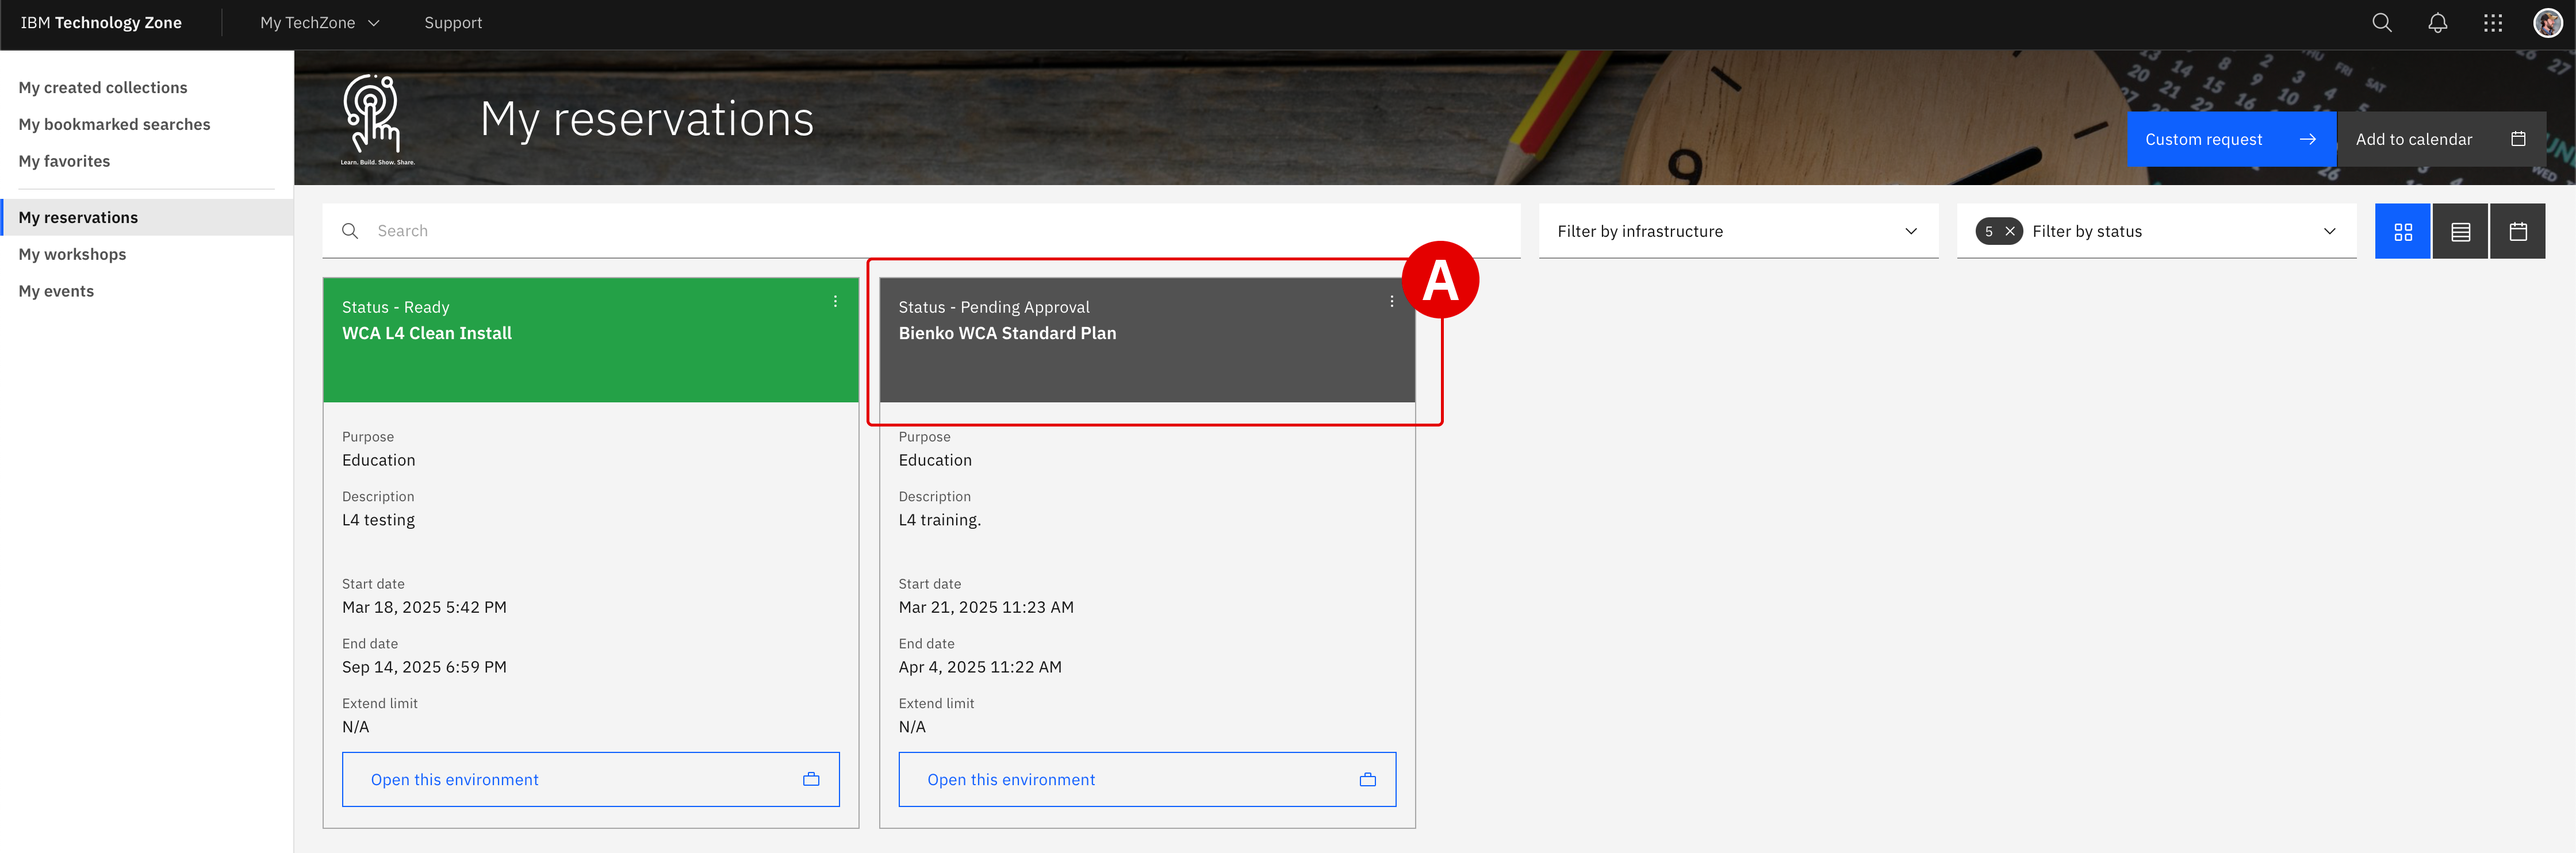
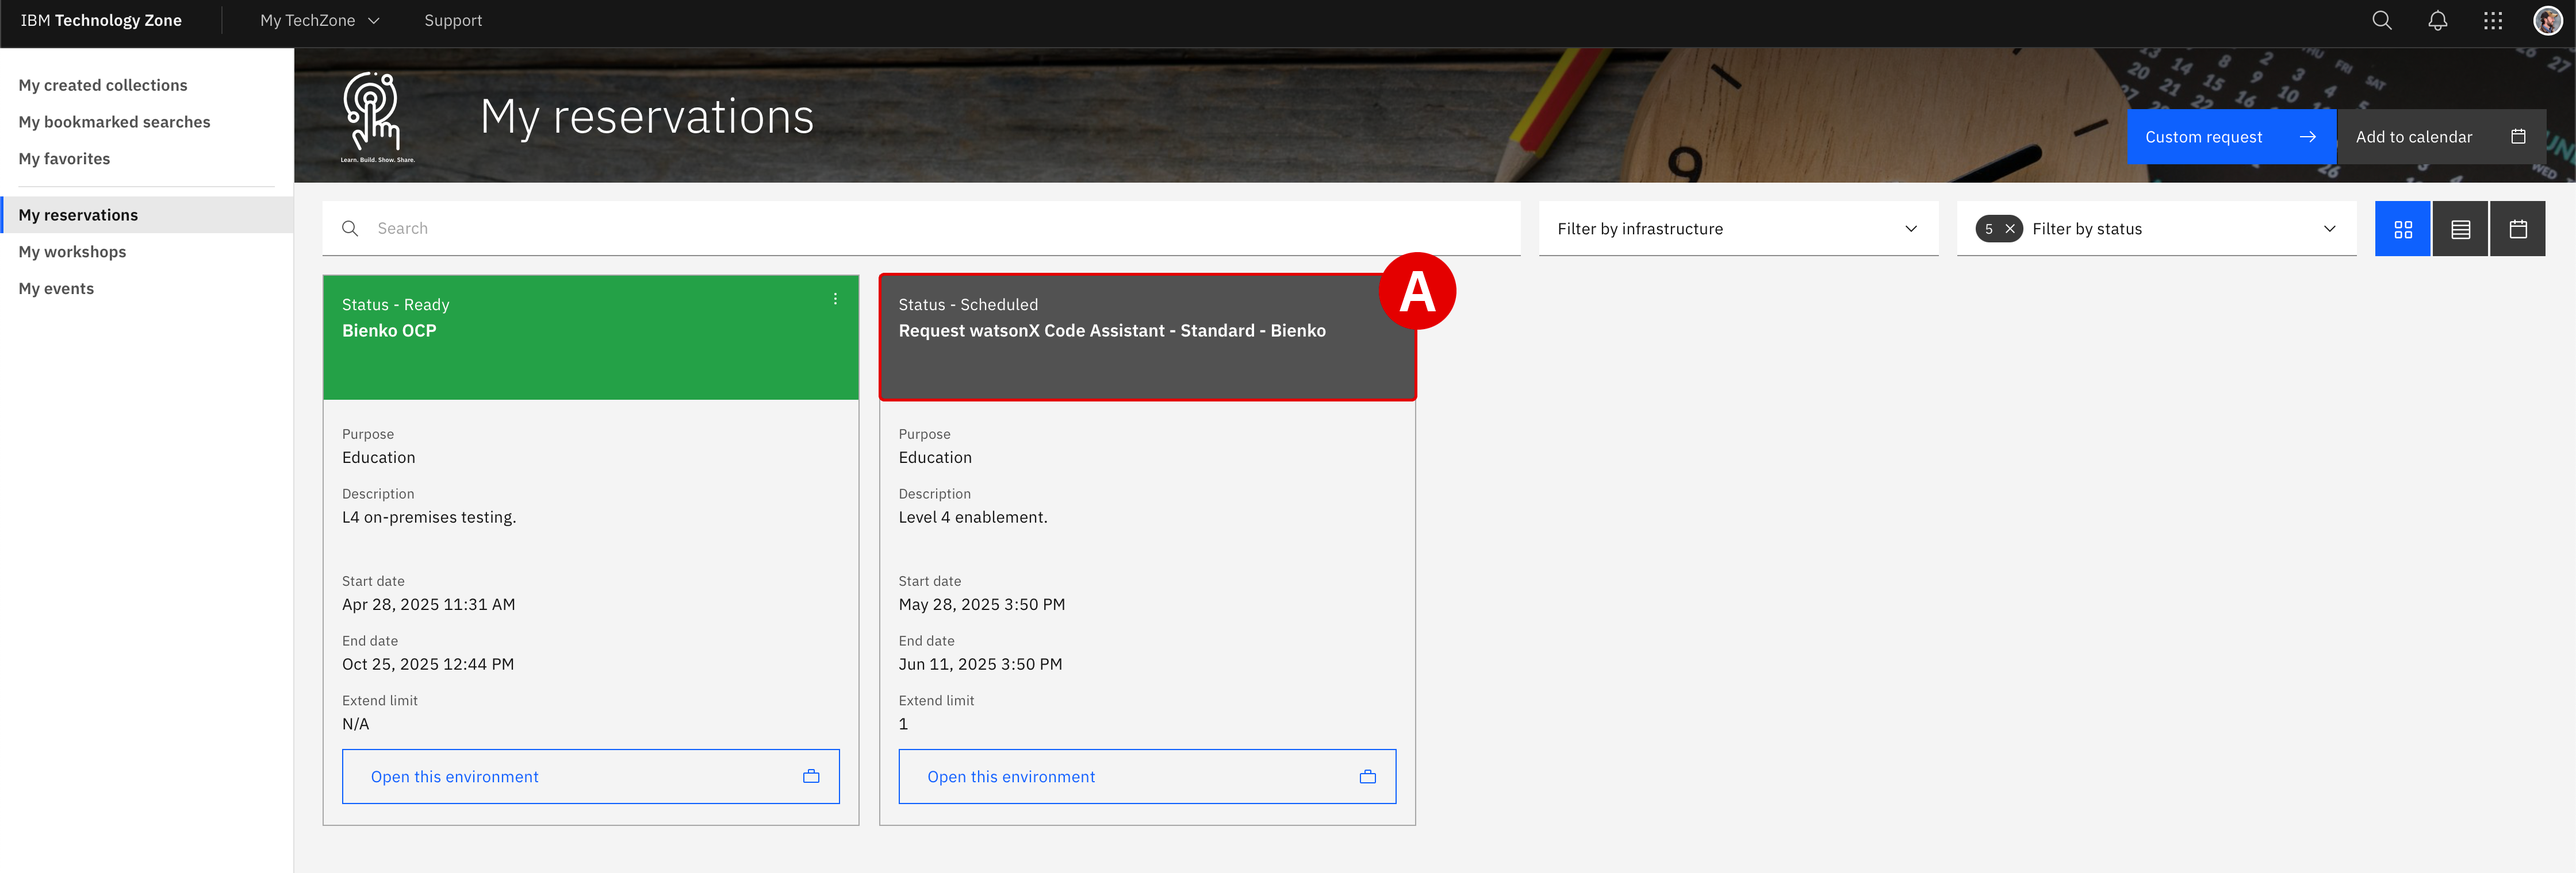
June 4

diff --git a/export_to_pdf.js b/export_to_pdf.js
@@ -9,20 +9,34 @@ var title = args[2];
 
 console.log('Saving', url, 'to', pdfPath);
 
-// date –  formatted print date
-// title – document title
-// url  – document location
-// pageNumber – current page number
-// totalPages – total pages in the document
-headerHtml = `
-<div style="font-size: 10px; padding-right: 1em; text-align: right; width: 100%;">
-    <span>${title}</span>  <span class="pageNumber"></span> / <span class="totalPages"></span>
+// Header HTML (right-aligned title with page numbering)
+const headerHtml = `
+<style>
+  .invisible-header {
+    font-size: 0;
+    color: transparent;
+    height: 1px;
+  }
+</style>
+<div class="invisible-header"></div>`;
+
+// Footer HTML (centered, small, greyscale legal notice)
+const footerHtml = `
+<div style="
+    width: 100%;
+    font-size: 8px;
+    color: #666;
+    text-align: center;
+    padding-top: 5px;
+    border-top: 0.5px solid #ccc;
+">
+    watsonx Code Assistant Level 4 — Lab Guide<br>
+    Course materials may not be reproduced in whole or in part without the prior written permission of IBM.
 </div>`;
 
-footerHtml = ` `;
 
 
-(async() => {
+(async () => {
     const browser = await puppeteer.launch({
         headless: true,
         executablePath: process.env.CHROME_BIN || null,
@@ -31,16 +45,17 @@ footerHtml = ` `;
 
     const page = await browser.newPage();
     await page.goto(url, { waitUntil: 'networkidle2' });
+
     await page.pdf({
-        path: pdfPath, // path to save pdf file
-        format: 'A4', // page format
-        displayHeaderFooter: false, // display header and footer (in this example, required!)
-        printBackground: true, // print background
-        landscape: false, // use horizontal page layout
-        headerTemplate: headerHtml, // indicate html template for header
+        path: pdfPath,
+        format: 'A4',
+        displayHeaderFooter: true, // enable header and footer rendering
+        printBackground: true,
+        landscape: false,
+        headerTemplate: headerHtml,
         footerTemplate: footerHtml,
-        scale: 0.8, //Scale amount must be between 0.1 and 2
-        margin: { // increase margins (in this example, required!)
+        scale: 0.8,
+        margin: {
             top: 80,
             bottom: 80,
             left: 30,

diff --git a/docs/styles/override-print.css b/docs/styles/override-print.css
@@ -1,0 +1,33 @@
+@page {
+  @top-right {
+    content: none !important;
+  }
+  @bottom-right {
+    content: none !important;
+  }
+}
+
+@media print {
+  img {
+    max-width: 85% !important;
+    height: auto !important;
+    display: block;
+    margin: 1em 0 1em 0 !important;  /* top/bottom spacing, no auto-centering */
+  }
+  h2 {
+    page-break-before: always;
+  }
+  h2:first-child {
+    page-break-before: auto;
+  }
+}
+
+/* Hide footer and header DOM-based page numbers */
+.page-number,
+.footer,
+.print-footer,
+.header,
+.header .page-number,
+.top-page-number {
+  display: none !important;
+}

diff --git a/docs/saas/2.md b/docs/saas/2.md
@@ -18,8 +18,9 @@ The following steps will guide participants through the process for requesting a
 
 2. There are multiple templates and flavors of WCA available:
 
-    - Locate the **Request watsonx Code Assistant - Standard (GA) [Approval Gated]**^[A]^ tile
+    - Locate the **Request watsonx Code Assistant - Standard**^[A]^ tile
     - Hover over and click the **IBM Cloud environment / Reserve It**^[B]^ button
+    - When prompted, click the **Reserve an environment** button
 
     </br>
     ![](_attachments/saas-2.2.png)
@@ -37,16 +38,14 @@ The following steps will guide participants through the process for requesting a
     | **Start Date and Time** | Select a time and date for when the reservation will begin. |
     | **End Date and Time** | Select a time and date for when the reservation will expire. |
 
-    When ready, verify that you agree to the *Terms and Conditions* for the environment and finalize your reservation request by clicking **Submit for Approval**^[A]^.
+    When ready, verify that you agree to the *Terms and Conditions* for the environment and finalize your reservation request by clicking **Submit**^[A]^.
     
     </br>
     ![](_attachments/saas-2.3.png)
 
 ---
 
-4. Navigate to the **<a href="https://techzone.ibm.com/my/reservations" target="_blank">My Reservations</a>** tab of the ITZ to monitor the progress. Initially, the request will be marked as *Pending Approval*^[A]^.
-
-    - You will receive an email with the header *Request Approved* once the request has been adjudicated by the approvals team
+4. Navigate to the **<a href="https://techzone.ibm.com/my/reservations" target="_blank">My Reservations</a>** tab of the ITZ to monitor the progress. Initially, the request will be marked as *Scheduled* or *Provisioning*^[A]^.
     
     - **Wait** for the ITZ reservation to be marked as *Ready* before continuing to Step 5
 
@@ -54,19 +53,14 @@ The following steps will guide participants through the process for requesting a
     ![](_attachments/saas-2.4.png)
 
     !!! note ""
-        - **Pending Approval:** marked in grey, the reservation is awaiting approval from ITZ
+        - **Scheduled:** marked in grey, the reservation is awaiting approval from ITZ
         - **Provisioning:** marked in yellow, the reservation is being deployed
         - **Ready:** marked in green, the reservation has successfully deployed
-        
-    !!! warning "REQUEST IS PENDING APPROVAL"
-        For ITZ templates marked as "Approval Gated", such as the WCA Standard Plan, reservations and provisioning requests are **not** automatically approved and instantiated. Per the IBM Technology Zone:
-        
-        "Your request has successfully been submitted and is pending approval. **Please allow 3 to 4 North American Business Days for the team to review for a decision.** To find more information on the reviewing group, reference the <a href="https://github.com/IBM/itz-support-public/blob/main/IBM-Technology-Zone/IBM-Technology-Zone-Runbooks/approval-workflow.md" target="_blank">**Approval Workflow Runbook**</a>. Leverage the <a href="https://github.com/IBM/itz-support-public/blob/main/IBM-Technology-Zone/IBM-Technology-Zone-Runbooks/approval-workflow.md" target="_blank">**Custom Request Runbook**</a> for details."
 
 
 ## **ii. Accessing the service details**
 
-Once the WCA service has been approved and provisioned, you will receive **two** emails with the following headers:
+Once the WCA service has been provisioned, you will receive **two** emails with the following headers:
 
 - **Reservation Ready on IBM Technology Zone:** indicates that the ITZ cluster has been successfully provisioned
 - **Account: Action required: You are invited to join an account in IBM Cloud:** additional steps required by the administrator (you) in order to link the WCA service to IBM Cloud

diff --git a/docs/index.md b/docs/index.md
@@ -1,17 +1,20 @@
-# **watsonx Code Assistant for Practitioners Level 4**
+# **watsonx Code Assistant Level 4**
 
 ## **i. Introduction**
 
 ---
 
-The curriculum of **watsonx Code Assistant for Practitioners Level 4** is designed to teach IBM technical sellers and business partners on how to best plan, execute on, and deploy **IBM watsonx Code Assistant**. Level 4 learning plans assume that participants have the technical background and proficiency to demonstrate a product or solution to a client, as well as a deep level of understanding for how it can help the client achieve their business goals. Level 4 learning plans are the next logical learning step that goes beyond the demonstrations covered in the Level 3 learning. In keeping with the offering's hybrid cloud architecture, this will encompass deployments both on-premises and for Software-as-a-Service (SaaS) cloud.
+The curriculum of **watsonx Code Assistant Level 4** is designed to teach IBM technical sellers and business partners on how to best plan, execute on, and deploy **IBM watsonx Code Assistant**. Level 4 learning plans assume that participants have the technical background and proficiency to demonstrate a product or solution to a client, as well as a deep level of understanding for how it can help the client achieve their business goals. Level 4 learning plans are the next logical learning step that goes beyond the demonstrations covered in the Level 3 learning. In keeping with the offering's hybrid cloud architecture, this will encompass deployments both on-premises and for Software-as-a-Service (SaaS) cloud.
 
 The hands-on modules included within this GitHub documentation— and outlined in the section below —are part of a broader Level 4 curriculum hosted on *IBM YourLearning* and *IBM Training*. To view the curriculum in its entirety and receive full accreditation for completing the Level 4 material, visit the following links:
 
 !!! warning ""
 	**IBM YourLearning (IBMers):** <a href="https://yourlearning.ibm.com/activity/PLAN-5C0B3BB33307" target="_blank">https://yourlearning.ibm.com/activity/PLAN-5C0B3BB33307</a>
 	
-    **IBM Training (Business Partners):** <a href="google.com" target="_blank">https://yourlearning.ibm.com/activity/PLAN-5C0B3BB33307</a>
+    **IBM Training (Business Partners):** <a href="https://www.ibm.com/training/learning-path/watsonx-code-assistant-level-4-1012" target="_blank">https://www.ibm.com/training/learning-path/watsonx-code-assistant-level-4-1012</a>
+
+</br>
+The "Practitioners" (Deploy) coursework extensively covers deployment of the service for both on-premises and IBM Cloud environments. Before taking this course, those enrolling should have earned the **<a href="https://www.credly.com/org/ibm/badge/watsonx-code-assistant-sales-foundation" target="_blank">watsonx Code Assistant Sales Foundation</a>** badge and the **<a href="https://www.credly.com/org/ibm/badge/watsonx-code-assistant-technical-sales-intermediate" target="_blank">watsonx Code Assistant Technical Sales Intermediate</a>** badge, and have the technical background and proficiency at giving hands-on demos to clients.
 
 ## **ii. WCA Portfolio**
 

diff --git a/docs/appmod/8.md b/docs/appmod/8.md
@@ -158,7 +158,15 @@ Before modernizing the WAS application into Liberty, you'll need to scope out th
 
 10. Open the **Explore** tab of VS Code and right-click anywhere inside the `modresorts-twas-j8` workspace. Then hover over **watsonx Code Assistant** and select **Modernize to Liberty**.
 
-    - A *Modernize* tab will open on the right side of VS Code
+    - A *Modernize to Liberty* tab will open within the VS Code interface
+
+    !!! note ""
+        As the modernization plan prepared earlier by *IBM Cloud Transformation Advisor* has not yet been uploaded to WCA at this stage, the modernization recommendations proposed *currently* by the service are less granular and contextualized than they will be *after* uploading the migration bundle. This presents an interesting opportunity to compare the before and after impacts of the migration bundle on the WCA modernization plan.
+
+    !!! tip ""
+        **Before uploading the migration bundle**, take note of the following information and record it to a notepad for reference later: how many proposed fixes are suggested for *Automated Fixes*, *Assisted Fixes*, and *Self-Directed Fixes*?
+
+    - To supply the migration bundle, click the **Return to Upload / analyze** button in the top-right corner of the *Modernize to Liberty* panel
     - Click the **Upload migration bundle** button
     - When prompted, specify `modresorts-twas-j8/migration-bundle/modresorts.ear_migrationBundle.zip` as the location of the migration bundle
     
@@ -166,6 +174,12 @@ Before modernizing the WAS application into Liberty, you'll need to scope out th
         **Observe** the state of the *Selected files to be added to the project* before making any adjustments or selections. Record these observations to a notepad for reference later.
     
     - Be sure that both the `server.xml` and `Containerfile` assets are selected, then click **Proceed** to continue
+    
+    </br>
+    ![](_attachments/appmod-8.10a.png)
+
+    </br>
+    ![](_attachments/appmod-8.10b.png)
 
 ---
 
